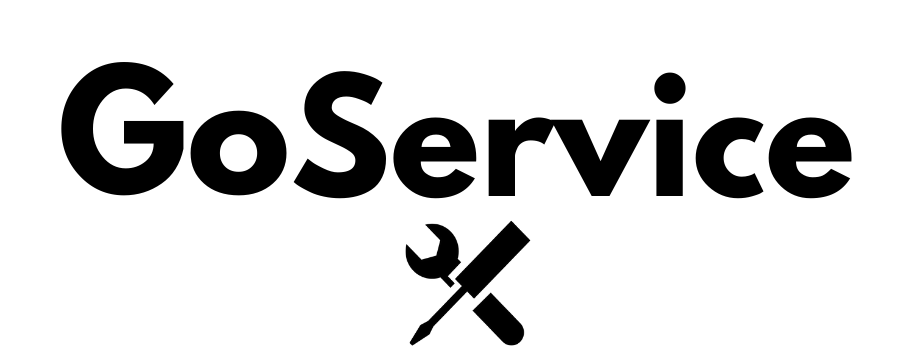
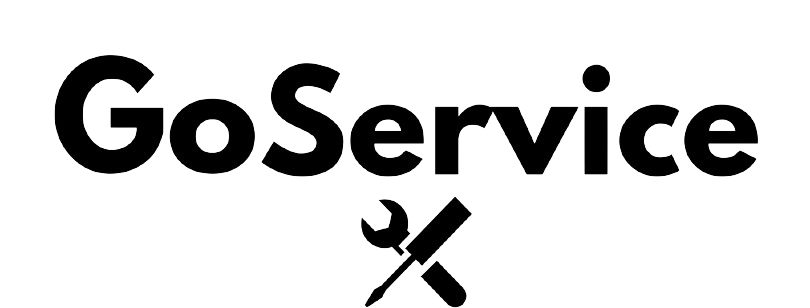
melhoria no layout

diff --git a/templates/clientes/cad_cliente.html b/templates/clientes/cad_cliente.html
@@ -8,7 +8,7 @@
 {% block body %}
     <div class="col-9 mx-auto">
         <div class="container__pai__logo">
-            <img class="logo" src="{{ url_for('static', filename='img/goservicebr.png')}}" id="logo" alt="">
+            <img class="logo" src="{{ url_for('static', filename='img/goservice.png')}}" id="logo" alt="">
         </div>
         <div class="container__pai__titulo">
             <h3 class="titulo__pag">Cadastro de Clientes</h3>
@@ -20,51 +20,51 @@
                 <div class="col">
                     <div class="form-group ">
                         <label>Nome</label>
-                        <input type="text" name="nome" id="" required class="form-control bg-black text-white">
+                        <input type="text" name="nome" id="" required class="form-control bg-white text-black">
                     </div>
                     <div class="form-group col">
                         <label>Email</label>
-                        <input type="email" name="email" id="" required class="form-control bg-black text-white">
+                        <input type="email" name="email" id="" required class="form-control bg-white text-black">
                     </div>
-                    <div class="form-group col">
+                    <div class="form-group col-md-4">
                         <label>CPF</label>
-                        <input type="text" name="cpf" id="" required class="form-control bg-black text-white">
+                        <input type="text" name="cpf" id="" required class="form-control bg-white text-black">
                     </div>
-                    <div class="form-group col">
+                    <div class="form-group col-md-4">
                         <label>Telefone</label>
-                        <input type="text" name="telefone" id="" required class="form-control bg-black text-white">
+                        <input type="text" name="telefone" id="" required class="form-control bg-white text-black">
                     </div>
                     <div class="form-group col">
                         <label>Endereço</label>
-                        <input type="text" name="rua" id="" required class="form-control bg-black text-white">
+                        <input type="text" name="rua" id="" required class="form-control bg-white text-black">
                     </div>
                 </div>
                 <div class="col">
                     <div class="form-group col-md-2 ">
                         <label>N° Casa</label>
-                        <input type="number" name="numero" id="" class="form-control bg-black text-white">
+                        <input type="number" name="numero" id="" class="form-control bg-white text-black">
                     </div>
-                    <div class="form-group col">
+                    <div class="form-group col-md-6">
                         <label>Bairro</label>
-                        <input type="text" name="bairro" id="" required class="form-control bg-black text-white">
+                        <input type="text" name="bairro" id="" required class="form-control bg-white text-black">
                     </div>
-                    <div class="form-group col">
+                    <div class="form-group col-md-6">
                         <label>Cidade</label>
-                        <input type="text" name="cidade" id="" required class="form-control bg-black text-white">
+                        <input type="text" name="cidade" id="" required class="form-control bg-white text-black">
                     </div>
-                    <div class="form-group col">
+                    <div class="form-group col-md-2">
                         <label>UF</label>
-                        <input type="text" name="estado" id="" required class="form-control bg-black text-white">
+                        <input type="text" name="estado" id="" required class="form-control bg-white text-black">
                     </div>
-                    <div class="form-group col">
+                    <div class="form-group col-md-4">
                         <label>CEP</label>
-                        <input type="text" name="cep" id="" required class="form-control bg-black text-white">
+                        <input type="text" name="cep" id="" required class="form-control bg-white text-black">
                     </div>
                 </div>
                 <br>
                 <div class="pai__botoes">
                     <input type="submit" value="Adicionar" class="btn bg-success text-white my-2 my-sm-0 btns">
-                    <a class="btn bg-white text-black my-2 my-sm-0 btns" href="{{url_for('logincliente.login_cliente')}}">Voltar
+                    <a class="btn bg-dark text-white my-2 my-sm-0 btns" href="{{url_for('logincliente.login_cliente')}}">Voltar
                     </a>
                 </div>
             </div>

diff --git a/templates/clientes/inicial_01.html b/templates/clientes/inicial_01.html
@@ -3,24 +3,24 @@
 {% block title %} Página Inicial {% endblock %}
 
 {% block customCSS %}
-<link rel="stylesheet" href="{{ url_for('static', filename='css/inicial_style.css')}}">
+<link rel="stylesheet" href="{{ url_for('static', filename='css/estilosCli/estilo_inicio.css') }}">
 {% endblock %}
 
 {% block content %}
     <main>
         <div class="inicial__pai__logo">
-            <img class="inicial__filho__logo" src="{{ url_for('static', filename='img/goservicebr.png')}}" alt="Logo da Empresa GoService">
+            <img class="inicial__filho__logo" src="{{ url_for('static', filename='img/goservice.png')}}" alt="Logo da Empresa GoService">
         </div>
         <div class="inicial__pai__imagens__usuarios">
             <img class="inicial__filho__imagens__usuarios" src="{{ url_for('static', filename='img/cliente.png')}}" alt="">
             <img class="inicial__filho__imagens__usuarios" src="{{ url_for('static', filename='img/profissional.png')}}" alt="">
         </div>
         <div class="inicial__pai__opcoes">
-            <a href="{{url_for('logincliente.login_cliente')}}">
+            <a class="inicial__filho__link" href="{{url_for('logincliente.login_cliente')}}">
                 <p class="inicial__filho__opcoes">Cliente</p>
             </a>
             <!-- manda para a rota login-->
-            <a href="#">
+            <a class="inicial__filho__link" href="#">
                 <p class="inicial__filho__opcoes__prof">Profissional</p>
             </a>
         </div>

diff --git a/static/css/estilosCli/estilo_inicio.css b/static/css/estilosCli/estilo_inicio.css
@@ -1,0 +1,65 @@
+@import url('https://fonts.googleapis.com/css2?family=Inter:wght@100;200;300;400;500;600;700;800;900&display=swap');
+
+* {
+    margin: 0;
+    padding: 0;
+    box-sizing: border-box;
+    --font-inter: 'Inter', sans-serif;
+}
+
+:root {
+    --cor-preta: #000000;
+    --cor-cinza: #ECECEC;
+    --cor-cinza-escuro: #CBC8C8;
+    --fonte-inter: 'Inter', sans-serif;
+}
+
+body {
+    background-color: var(--cor-cinza);
+    font-family: var(--font-inter);
+    color: var(--cor-preta);
+}
+
+.inicial__pai__logo {
+    padding: 1% 0% 8% 0%;
+    display: flex;
+    justify-content: center;
+}
+
+.inicial__filho__logo {
+    width: 600px;
+}
+
+.inicial__pai__imagens__usuarios {
+    display: flex;
+    justify-content: space-evenly;
+    
+}
+
+.inicial__filho__imagens__usuarios {
+    width: 130px;
+    
+}
+
+.inicial__pai__opcoes {
+display: flex;
+justify-content: space-evenly;
+padding: 4% 0% 0% 3%;
+
+}
+
+.inicial__filho__opcoes,
+.inicial__filho__opcoes__prof {
+    position: relative;
+    display: inline-block;
+    text-transform: uppercase;
+    transition: 0.5s;
+    letter-spacing: 4px;
+    overflow: hidden;
+    text-decoration: none;
+    font-size: 28px;
+    outline: 0;
+    color: var(--cor-preta);
+    font-weight: 700;
+
+}

diff --git a/static/css/estilosCli/estilo_cad_cliente.css b/static/css/estilosCli/estilo_cad_cliente.css
@@ -1,22 +1,38 @@
+@import url('https://fonts.googleapis.com/css2?family=Inter:wght@100;200;300;400;500;600;700;800;900&display=swap');
+
+
 :root {
     --cor-preta: #000;
     --cor-branca: #FFF;
+    --cor-cinza: #ECECEC;
+    --fonte-inter: 'Inter', sans-serif;
 }
+
+* {
+    margin: 0;
+    padding: 0;
+    box-sizing: border-box;
+}
+
 
 body {
-    background-color: var(--cor-preta);
-    color: var(--cor-branca);
+    background-color: var(--cor-cinza);
+    color: var(--cor-preta);
+    font-family: var(--font-inter);
 }
 
-label {
+label,
+input {
     font-size: 20px;
     font-weight: 700;
+    font-family: var(--fonte-inter);
 }
 
 
 .titulo__pag {
     font-size: 36px;
     font-weight: 700;
+    
 }
 
 
@@ -26,6 +42,7 @@ label {
 }
 
 .container__pai__titulo {
+    font-family: var(--fonte-inter);
     padding: 1em 0em;
     display: flex;
     justify-content: center;
@@ -47,4 +64,5 @@ label {
     font-size: 14px;
     font-weight: 700 ;
     width: 12em;
+    font-family: var(--fonte-inter);
 }

diff --git a/templates/clientes/base/base_cadastrados.html b/templates/clientes/base/base_cadastrados.html
@@ -5,8 +5,12 @@
     <meta name="viewport" content="width=device-width, initial-scale=1.0">
     <title>{% block title %}  {% endblock %}</title>
     <link href="https://cdn.jsdelivr.net/npm/bootstrap@5.3.2/dist/css/bootstrap.min.css" rel="stylesheet" integrity="sha384-T3c6CoIi6uLrA9TneNEoa7RxnatzjcDSCmG1MXxSR1GAsXEV/Dwwykc2MPK8M2HN" crossorigin="anonymous">
-    <script src="https://cdn.jsdelivr.net/npm/bootstrap@5.3.2/dist/js/bootstrap.bundle.min.js" integrity="sha384-C6RzsynM9kWDrMNeT87bh95OGNyZPhcTNXj1NW7RuBCsyN/o0jlpcV8Qyq46cDfL" crossorigin="anonymous"></script>
-    <link rel="stylesheet" href="{{ url_for('static', filename='css/estilosCli/estilo_lista.css')}}">
+    <script src="https://cdn.jsdelivr.net/npm/bootstrap@5.3.2/dist/js/bootstrap.bundle.min.js" integrity="sha384-C6RzsynM9kWDrMNeT87bh95OGNyZPhcTNXj1NW7RuBCsyN/o0jlpcV8Qyq46cDfL" crossorigin="anonymous" defer></script>
+    
+    {% block customCSS %}
+
+    {% endblock %}
+
 </head>
 <body>
     {% block body %}

diff --git a/templates/clientes/base/base_cad.html b/templates/clientes/base/base_cad.html
@@ -6,12 +6,11 @@
     <title>{% block title %}  {% endblock %}</title>
     <link href="https://cdn.jsdelivr.net/npm/bootstrap@5.3.2/dist/css/bootstrap.min.css" rel="stylesheet" integrity="sha384-T3c6CoIi6uLrA9TneNEoa7RxnatzjcDSCmG1MXxSR1GAsXEV/Dwwykc2MPK8M2HN" crossorigin="anonymous">
     <script src="https://cdn.jsdelivr.net/npm/bootstrap@5.3.2/dist/js/bootstrap.bundle.min.js" integrity="sha384-C6RzsynM9kWDrMNeT87bh95OGNyZPhcTNXj1NW7RuBCsyN/o0jlpcV8Qyq46cDfL" crossorigin="anonymous"></script>
-    <link rel="stylesheet" href="{{ url_for('static', filename='css/estilosCli/estilo_lista.css')}}">
+    <!--<link rel="stylesheet" href="{{ url_for('static', filename='css/estilosCli/estilo_lista.css')}}"-->
+    {% block customCSS %}
+    {% endblock %}
 </head>
 <body>
-    <header>
-      
-    </header>
     <div class="container pt 3">
         {% with messages=get_flashed_messages(with_categories=true) %}
             {% if messages %}

diff --git a/templates/clientes/cadastrados.html b/templates/clientes/cadastrados.html
@@ -1,8 +1,15 @@
 {% extends 'clientes/base/base_cadastrados.html' %}
 
+{% block title %} Lista de Cadastrados {% endblock %}
+
+{% block customCSS %} 
+<link rel="stylesheet" href="{{ url_for('static', filename='css/estilosCli/estilo_lista.css') }}"> 
+{% endblock %}
+
 {% block body %}
 
   <h3 class="titulo__pagina">Clientes Cadastrados</h3>
+  <table class="table table-bordered table-dark bg-dark tabela">
     <thead>
       <tr>
         <th scope="col">ID</th>

diff --git a/static/css/estilosCli/estilo_lista.css b/static/css/estilosCli/estilo_lista.css
@@ -19,12 +19,6 @@ body {
 }
 
 
-.tabela {
-    display: block;
-    margin: 0em 0em 2em 0em;
-    padding: 3em;
-}
-
 .img__logo__voltar{
     width: 50px;
 }
